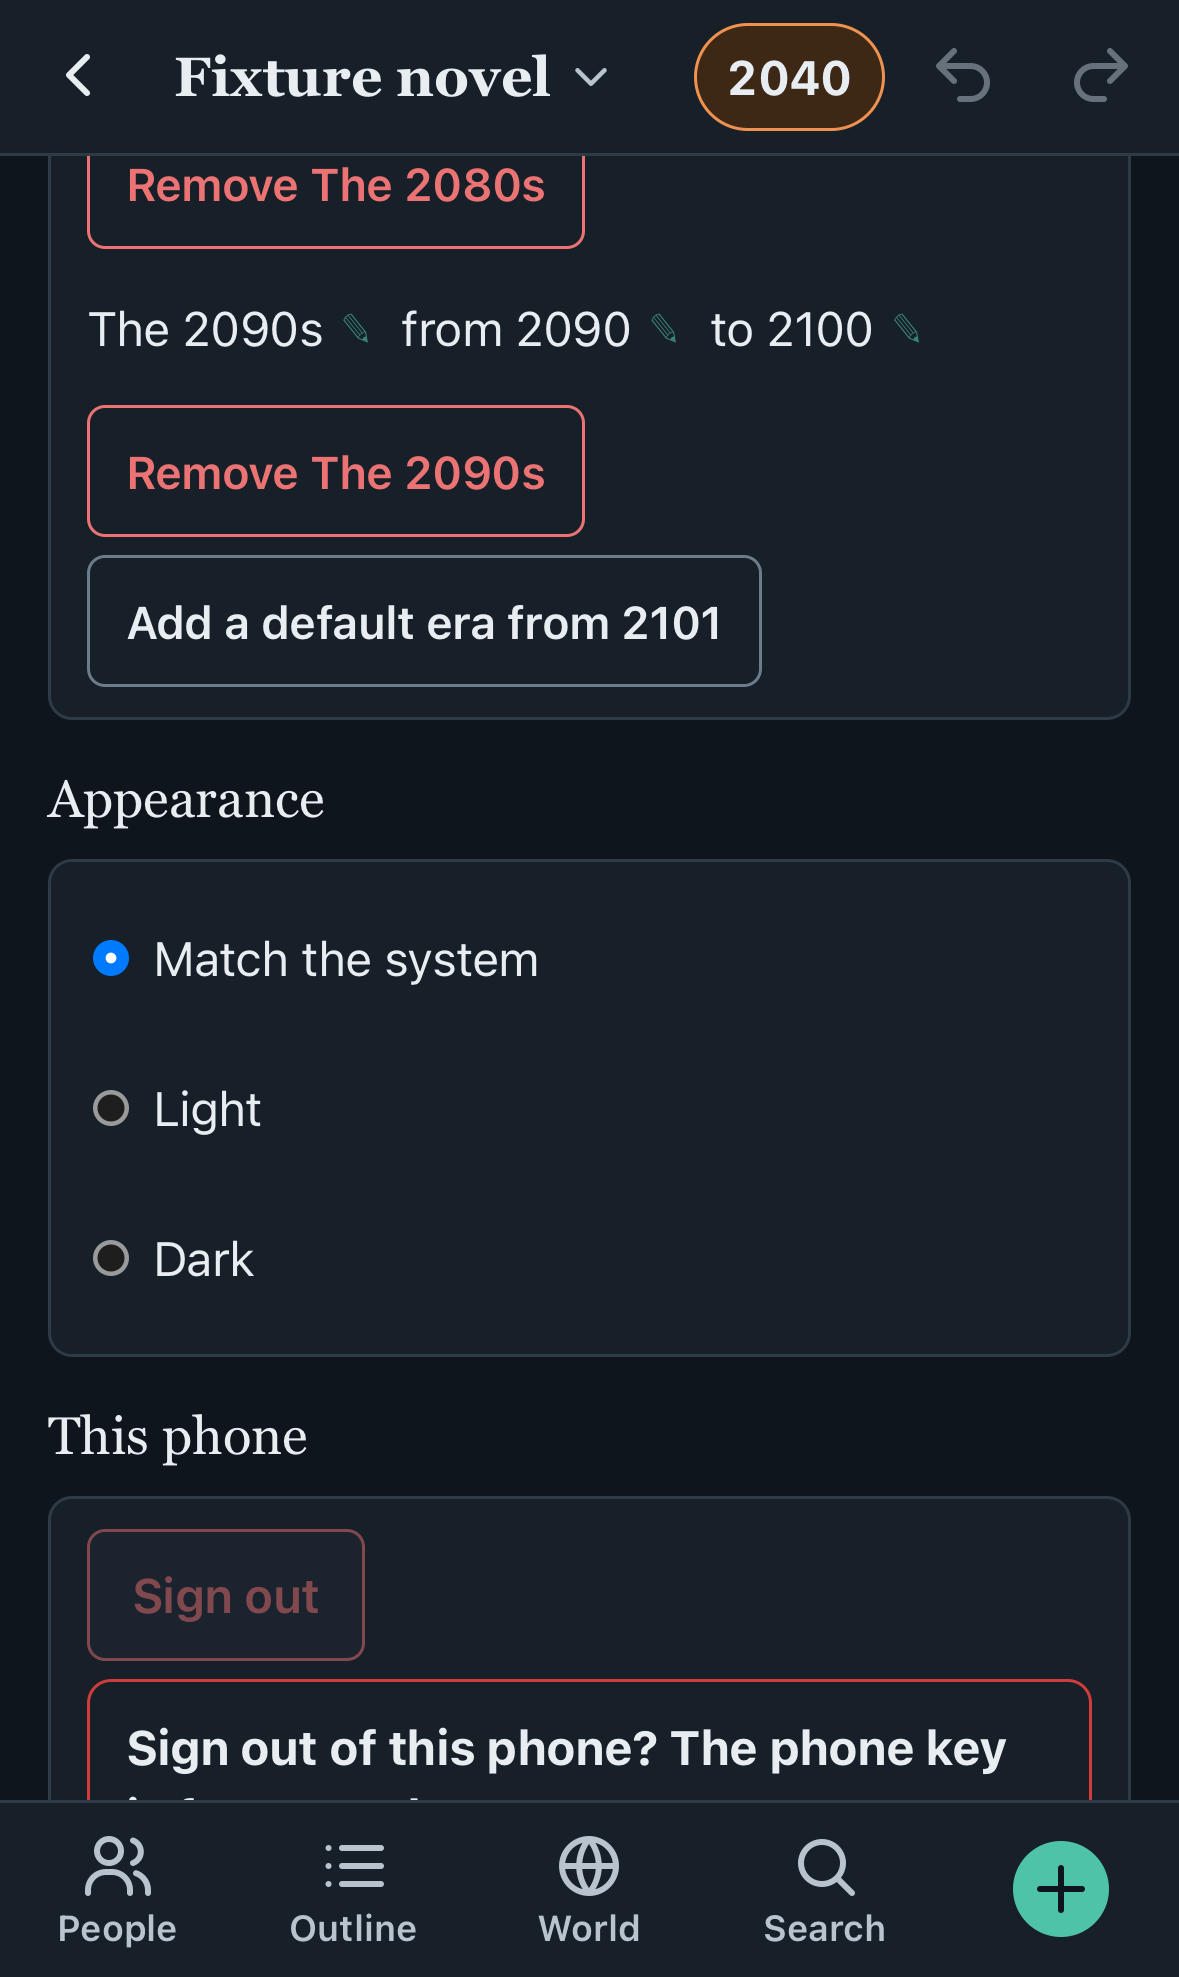
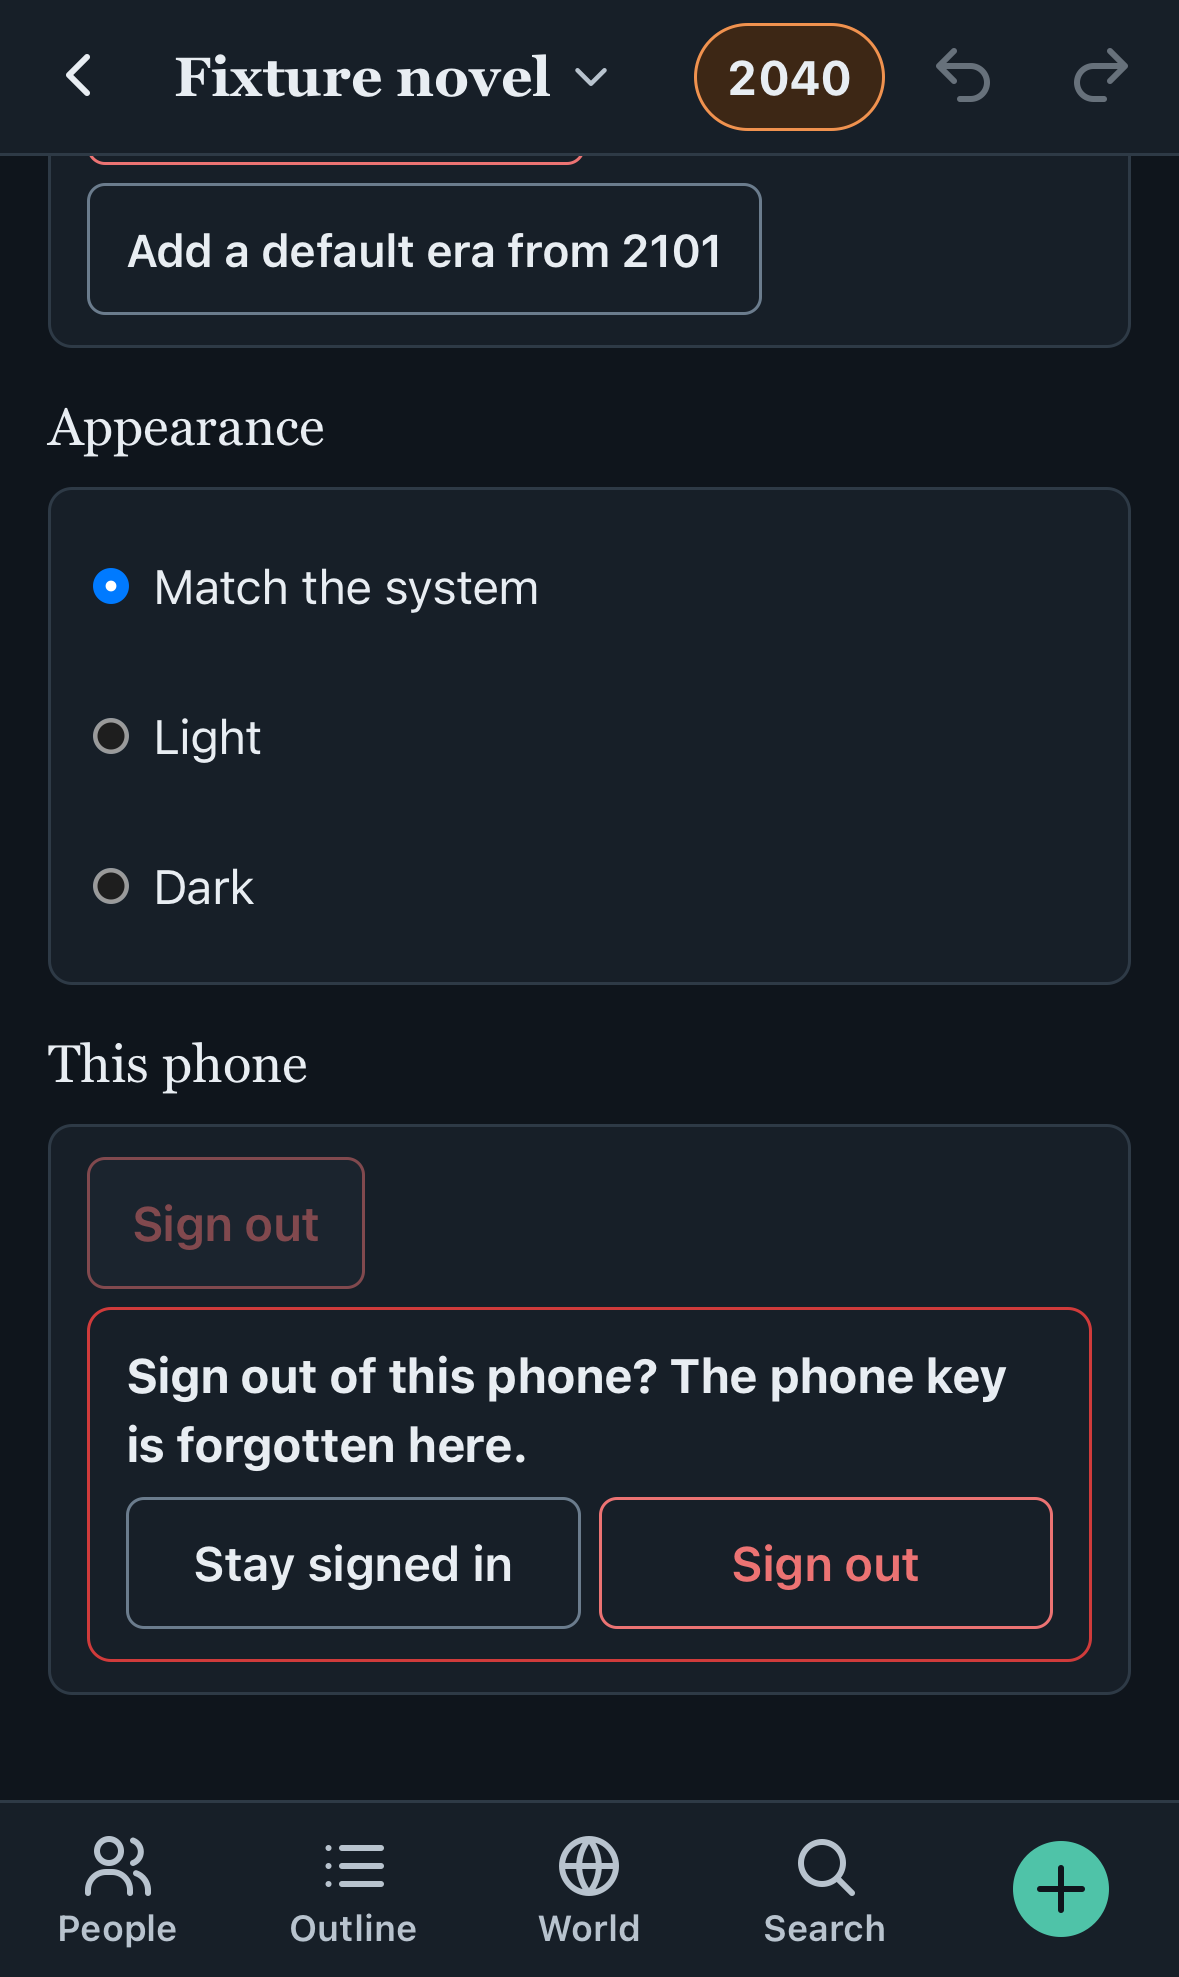
A58 U6: the top bar's year waits for the bible's story time; sign out screen in view

diff --git a/tests/web/phone-more.spec.ts b/tests/web/phone-more.spec.ts
@@ -576,7 +576,9 @@ test('PH-34 PH-35 PH-36 screens for the record, light and dark', async ({ page }
     if (label === 'Settings') {
       await scope.getByTestId('sign-out').scrollIntoViewIfNeeded();
       await scope.getByTestId('sign-out').tap();
-      await scope.getByTestId('sign-out-confirm').scrollIntoViewIfNeeded();
+      await scope
+        .getByTestId('sign-out-confirm')
+        .evaluate((el) => el.scrollIntoView({ block: 'center', behavior: 'instant' }));
       await shoot('09b-settings-sign-out');
     }
     await page.getByTestId('phone-back').tap();

diff --git a/src/renderer/src/workspace/phone/PhoneFrame.tsx b/src/renderer/src/workspace/phone/PhoneFrame.tsx
@@ -156,7 +156,8 @@ function PhoneTopBar({ name }: { name: string }) {
   const nav = usePhoneNav();
   const story = useStoryTime();
   const undo = useUndo();
-  const year = String((story.time ?? { year: story.year }).year);
+  // A58 U6: no year until the bible's story time is read, so the bar never shows another one first.
+  const year = story.stored ? String((story.time ?? { year: story.year }).year) : '';
   const nextUndo = undo.history.undo[0]?.label;
   const nextRedo = undo.history.redo[0]?.label;
   return (

diff --git a/tests/web/server.ts b/tests/web/server.ts
@@ -136,6 +136,8 @@ export async function openFixture(page: Page, url: string): Promise<void> {
   await expect(open.or(workspace)).toBeVisible();
   if (await open.isVisible()) await open.click();
   await expect(workspace).toBeVisible();
+  // A58 U6: the top bar shows the year once the bible's story time is read.
+  await expect(page.getByTestId('phone-year')).toHaveText(/\d/);
 }
 
 /** The character page of one of the fixture's people, from the Characters list. */
